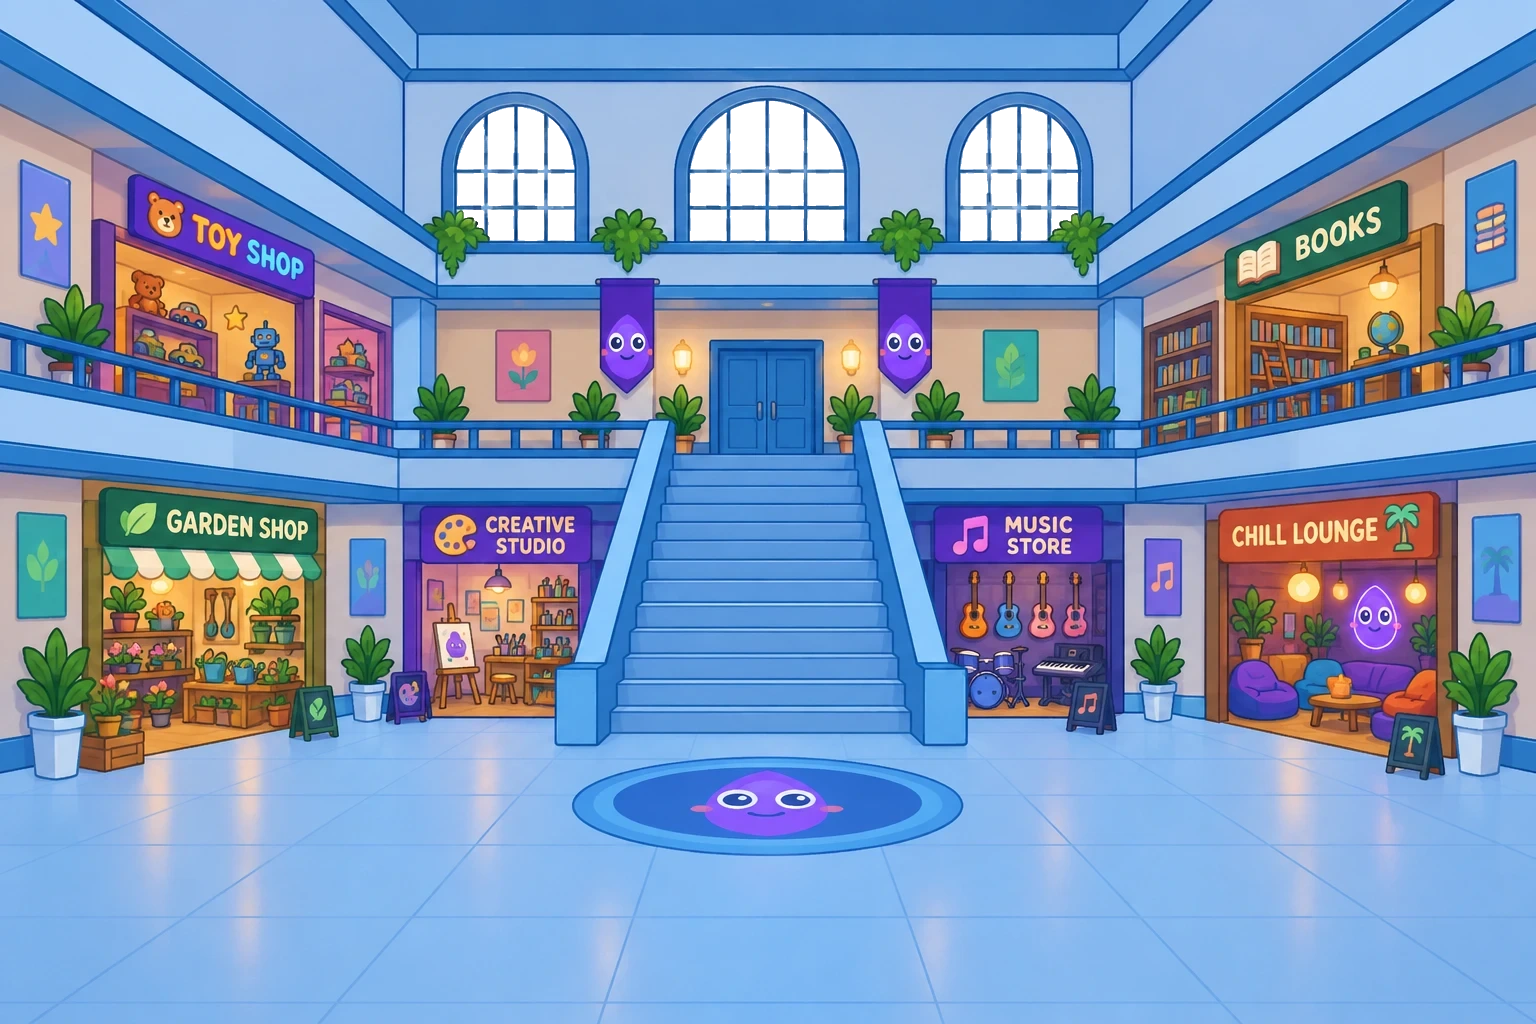
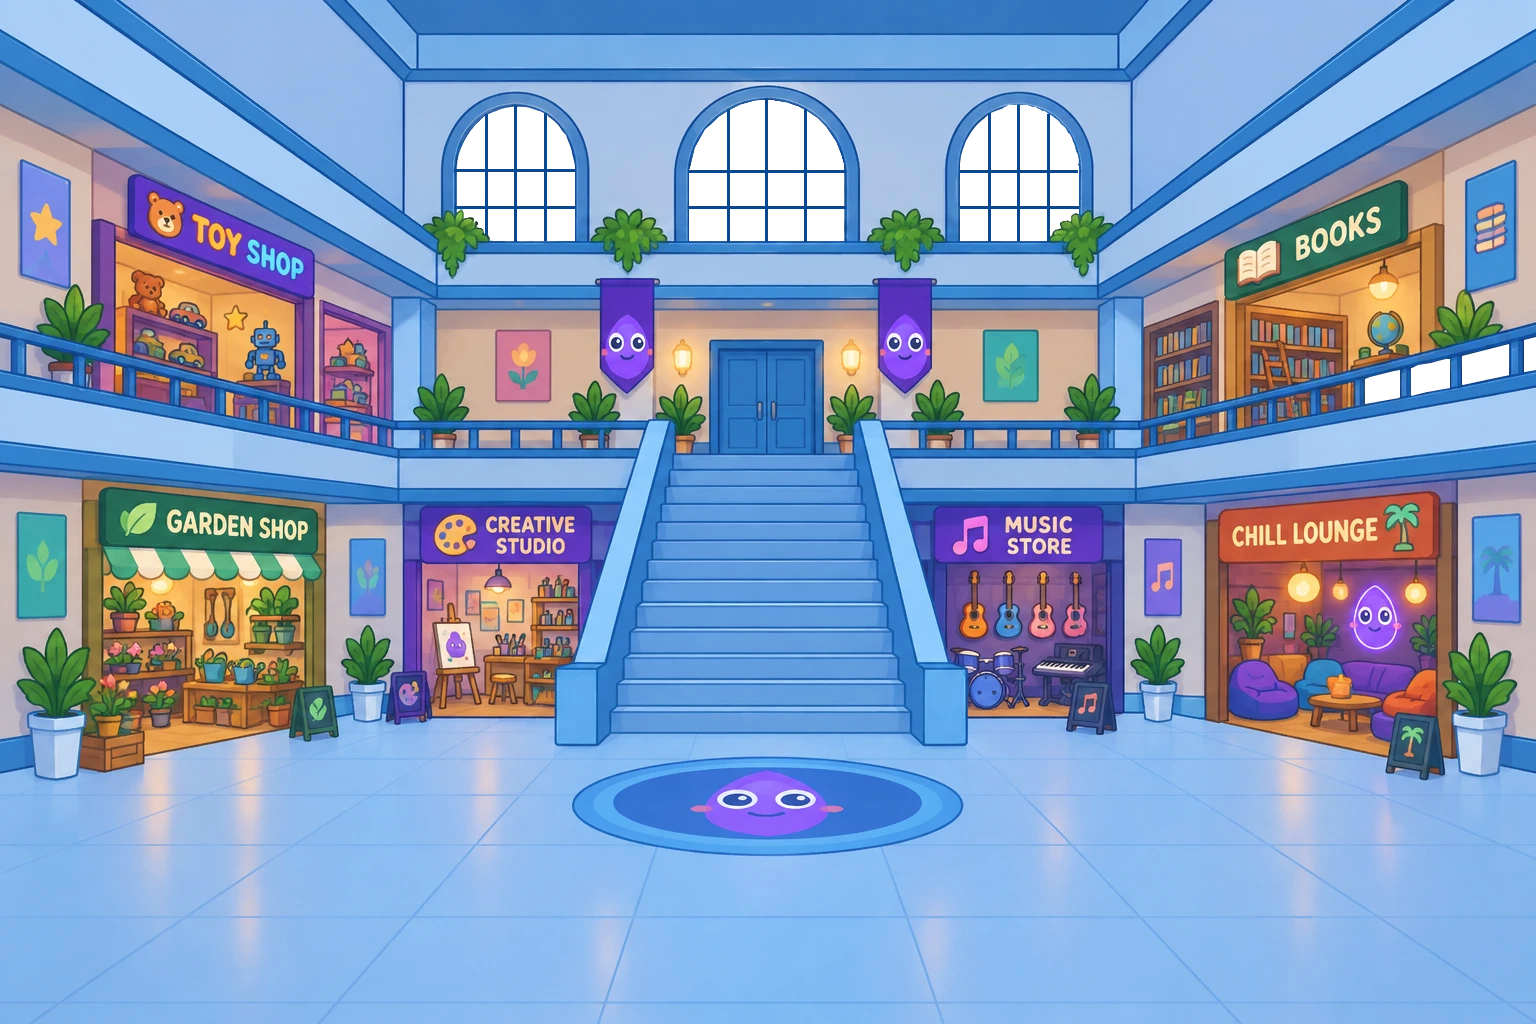
feat(sky): show the island sky through the Plaza's windows
The redrawn Plaza interior has three arched windows, and the island's
live sky — clouds by day, moon and stars by night — should be visible
through them. It was not, for two reasons: the location was a disabled
interior in the sky table, and the plate's panes were not actually
transparent. The artwork carried a painted checkerboard where the glass
should be, and a uniform alpha of 0.96 across every pixel.

The plate is fixed at the source rather than faked behind: the pane
pixels (low-chroma, light, inside the three arches) are cut to alpha 0
and everything else set fully opaque, so there is no static sky baked in
and nothing shows through a wall. The same `IslandSkyLayer` that sits
behind every outdoor plate now sits behind this one.

`plaza-inside` becomes the one enabled interior. It is graded at half
strength — a room lit by its own lamps follows the day without its
storefront signs going dark — and gets clouds, since every passage's ink
stays above 26 % and the windows sit at 9–24 %. The location test's
"exterior plates only" guard becomes "exterior plates, or an interior
named as having cut-out windows", so no other interior can slip in.

diff --git a/src/lib/island-sky-locations.test.ts b/src/lib/island-sky-locations.test.ts
@@ -25,25 +25,41 @@ describe('sky location coverage', () => {
   });
 });
 
+/**
+ * Interiors whose artwork has real windows cut out of it. An interior earns a
+ * sky only by being on this list — see the guard below.
+ */
+const INTERIORS_WITH_WINDOWS: LocationId[] = ['plaza-inside'];
+
 describe('the locations enabled in this phase', () => {
-  it('is exactly the six confirmed outdoor scenes', () => {
+  it('is exactly the six confirmed outdoor scenes plus the Plaza interior', () => {
     expect(skyEnabledLocations().sort()).toEqual([
       'back-yard',
       'beach',
       'mine',
       'nostr-station',
       'plaza',
+      'plaza-inside',
       'town',
     ]);
   });
 
-  it('only enables scenes whose background asset is an "-open" exterior plate', () => {
+  it('only enables "-open" exterior plates, or an interior whose windows are cut out', () => {
     // Not a rule that the filename *grants* a sky — the interiors below prove the
     // suffix is not sufficient. It is a guard that an interior plate never
-    // silently ends up enabled.
+    // silently ends up enabled: an interior gets in by being NAMED here, which
+    // is a claim that its plate has transparent windows (`plaza-inside.webp`'s
+    // three arches are the only transparent pixels in it).
     for (const id of skyEnabledLocations()) {
+      if (INTERIORS_WITH_WINDOWS.includes(id)) continue;
       expect(LOCATION_BACKGROUNDS[id], id).toMatch(/-open\.(png|webp)$/);
     }
+  });
+
+  it('grades the Plaza interior at half strength — lit by its own lamps', () => {
+    const config = getLocationSkyConfig('plaza-inside');
+    expect(config.worldLightStrength).toBeGreaterThan(0);
+    expect(config.worldLightStrength).toBeLessThan(getLocationSkyConfig('plaza').worldLightStrength);
   });
 
   it('is keyed by LocationId, so a .png → .webp rename cannot switch a sky off', () => {
@@ -69,7 +85,6 @@ describe('the locations enabled in this phase', () => {
 describe('the locations deliberately left disabled', () => {
   const DISABLED_IDS: LocationId[] = [
     'home',
-    'plaza-inside',
     'nostr-station-inside',
     'arcade',
     'arcade-1',
@@ -113,10 +128,11 @@ describe('the locations deliberately left disabled', () => {
 
 describe('artwork readiness', () => {
   it('records every enabled scene as sky-ready — the migration is complete', () => {
-    // All six outdoor plates now expose a transparent sky region. Verified against
-    // the actual files, not inferred from the config.
+    // All six outdoor plates and the Plaza interior's windows expose a
+    // transparent sky region. Verified against the actual files, not inferred
+    // from the config.
     expect(skyReadyLocations().sort()).toEqual(skyEnabledLocations().sort());
-    expect(skyReadyLocations()).toHaveLength(6);
+    expect(skyReadyLocations()).toHaveLength(7);
   });
 
   it('keeps readiness a record rather than a gate', () => {

diff --git a/src/lib/island-sky-locations.ts b/src/lib/island-sky-locations.ts
@@ -17,11 +17,12 @@
  *
  * ## `enabled` is about the scene, `artworkSkyReady` is about the asset
  *
- * A location is `enabled` when it is an outdoor scene that *should* share the
- * island's sky. `artworkSkyReady` records whether its artwork has actually had the
- * sky region cut out yet.
+ * A location is `enabled` when it is a scene that *should* share the island's
+ * sky — every outdoor scene, and the one interior whose windows look out on it.
+ * `artworkSkyReady` records whether its artwork has actually had the sky region
+ * cut out yet.
  *
- * **As of this pass, all six are ready.** The asset migration landed cut-out plates
+ * **As of this pass, all seven are ready.** The asset migration landed cut-out plates
  * scene by scene while this feature was being built, so the flag spent most of that
  * time partly false; it is kept because it gates nothing and it is the honest place
  * to record the state if a future scene is enabled before its art is done. A scene
@@ -70,7 +71,7 @@ const DISABLED: LocationSkyConfig = {
 };
 
 /**
- * Explicit for all 16 `LocationId`s — a `Record`, not a `Partial`, so adding a
+ * Explicit for every `LocationId` — a `Record`, not a `Partial`, so adding a
  * location to the union is a type error here until somebody decides whether it
  * has a sky.
  */
@@ -127,8 +128,21 @@ export const LOCATION_SKY_CONFIG: Record<LocationId, LocationSkyConfig> = {
     note: 'Outdoor hillside approach. Artwork is transparent above the hill and tree line.',
   },
 
+  'plaza-inside': {
+    enabled: true,
+    // The three arched windows sit at y 9–24 %, and every cloud's ink stays
+    // above 26 %, so passages drift past the glass exactly as they should.
+    showClouds: true,
+    showStars: true,
+    // An interior lit by its own lamps: it follows the day at half strength,
+    // so night is visible through the glass and felt in the room without
+    // putting the storefronts' signs into the dark.
+    worldLightStrength: 0.5,
+    artworkSkyReady: true,
+    note: 'Plaza INTERIOR — the only interior with a sky. Its three arched windows are cut out of `plaza-inside.webp`; every other pixel of the plate is opaque.',
+  },
+
   home: DISABLED,
-  'plaza-inside': DISABLED,
   'nostr-station-inside': DISABLED,
   arcade: DISABLED,
   'arcade-1': DISABLED,

diff --git a/docs/day-night-sky.md b/docs/day-night-sky.md
@@ -612,9 +612,10 @@ landed.
 | `back-yard` | `back-yard-open.webp` | **Yes** (~28% strip above the fence) |
 | `mine` | `mine-open.webp` | **Yes** (through the conifer gap) |
 | `nostr-station` | `nostr-station-open.webp` | **Yes** |
+| `plaza-inside` | `plaza-inside.webp` | **Yes** (the three arched windows, y 9–24 %) |
 
-**The asset migration is complete: all six plates now expose a transparent sky
-region**, verified by opening each current file. Every one is an outdoor scene with a
+**The asset migration is complete: all six outdoor plates now expose a transparent
+sky region**, verified by opening each current file. Every one is an outdoor scene with a
 real sky. `mine-open.webp` is the mine **exterior**; `nostr-station-open.webp` is a
 stylized outdoor hillside. Neither is a cave opening or an interior window, so both
 take the global sky. `open` in a filename was treated as no evidence at all — see the
@@ -631,10 +632,19 @@ hall is no longer in `plaza-open.webp`, and the Mine's cave mouth has moved to
 and structures composite in front of clouds correctly), but it means the "usable
 sky" figures above will keep growing, and any figure quoted here is a snapshot.
 
+**`plaza-inside` is the one interior with a sky.** Its redrawn plate has three
+arched windows whose panes are cut out (they are the only transparent pixels in
+the file — a test on the location table pins the claim), so the live sky, clouds
+and stars show through the glass while the walls stay opaque. It is graded at
+half strength (`worldLightStrength: 0.5`): a room lit by its own lamps follows
+the day without its storefront signs going dark. Nothing is faked behind the
+windows — the same `IslandSkyLayer` sits behind the plate as everywhere else.
+
 ### Deliberately disabled
 
-`home`, `plaza-inside`, `nostr-station-inside`, `arcade`, `arcade-1`,
-`arcade-minus1`, `stage`, `shop`, `clothing-store-inside` — interiors.
+`home`, `nostr-station-inside`, `arcade`, `arcade-1`, `arcade-minus1`, `stage`,
+`shop`, `clothing-store-inside` and the other shop interiors — interiors with no
+window onto the sky.
 
 `cave-open` — **despite the id**, its artwork is `cave-inside.png`, a cave
 interior. The clearest illustration of why ids and filenames are not evidence.
